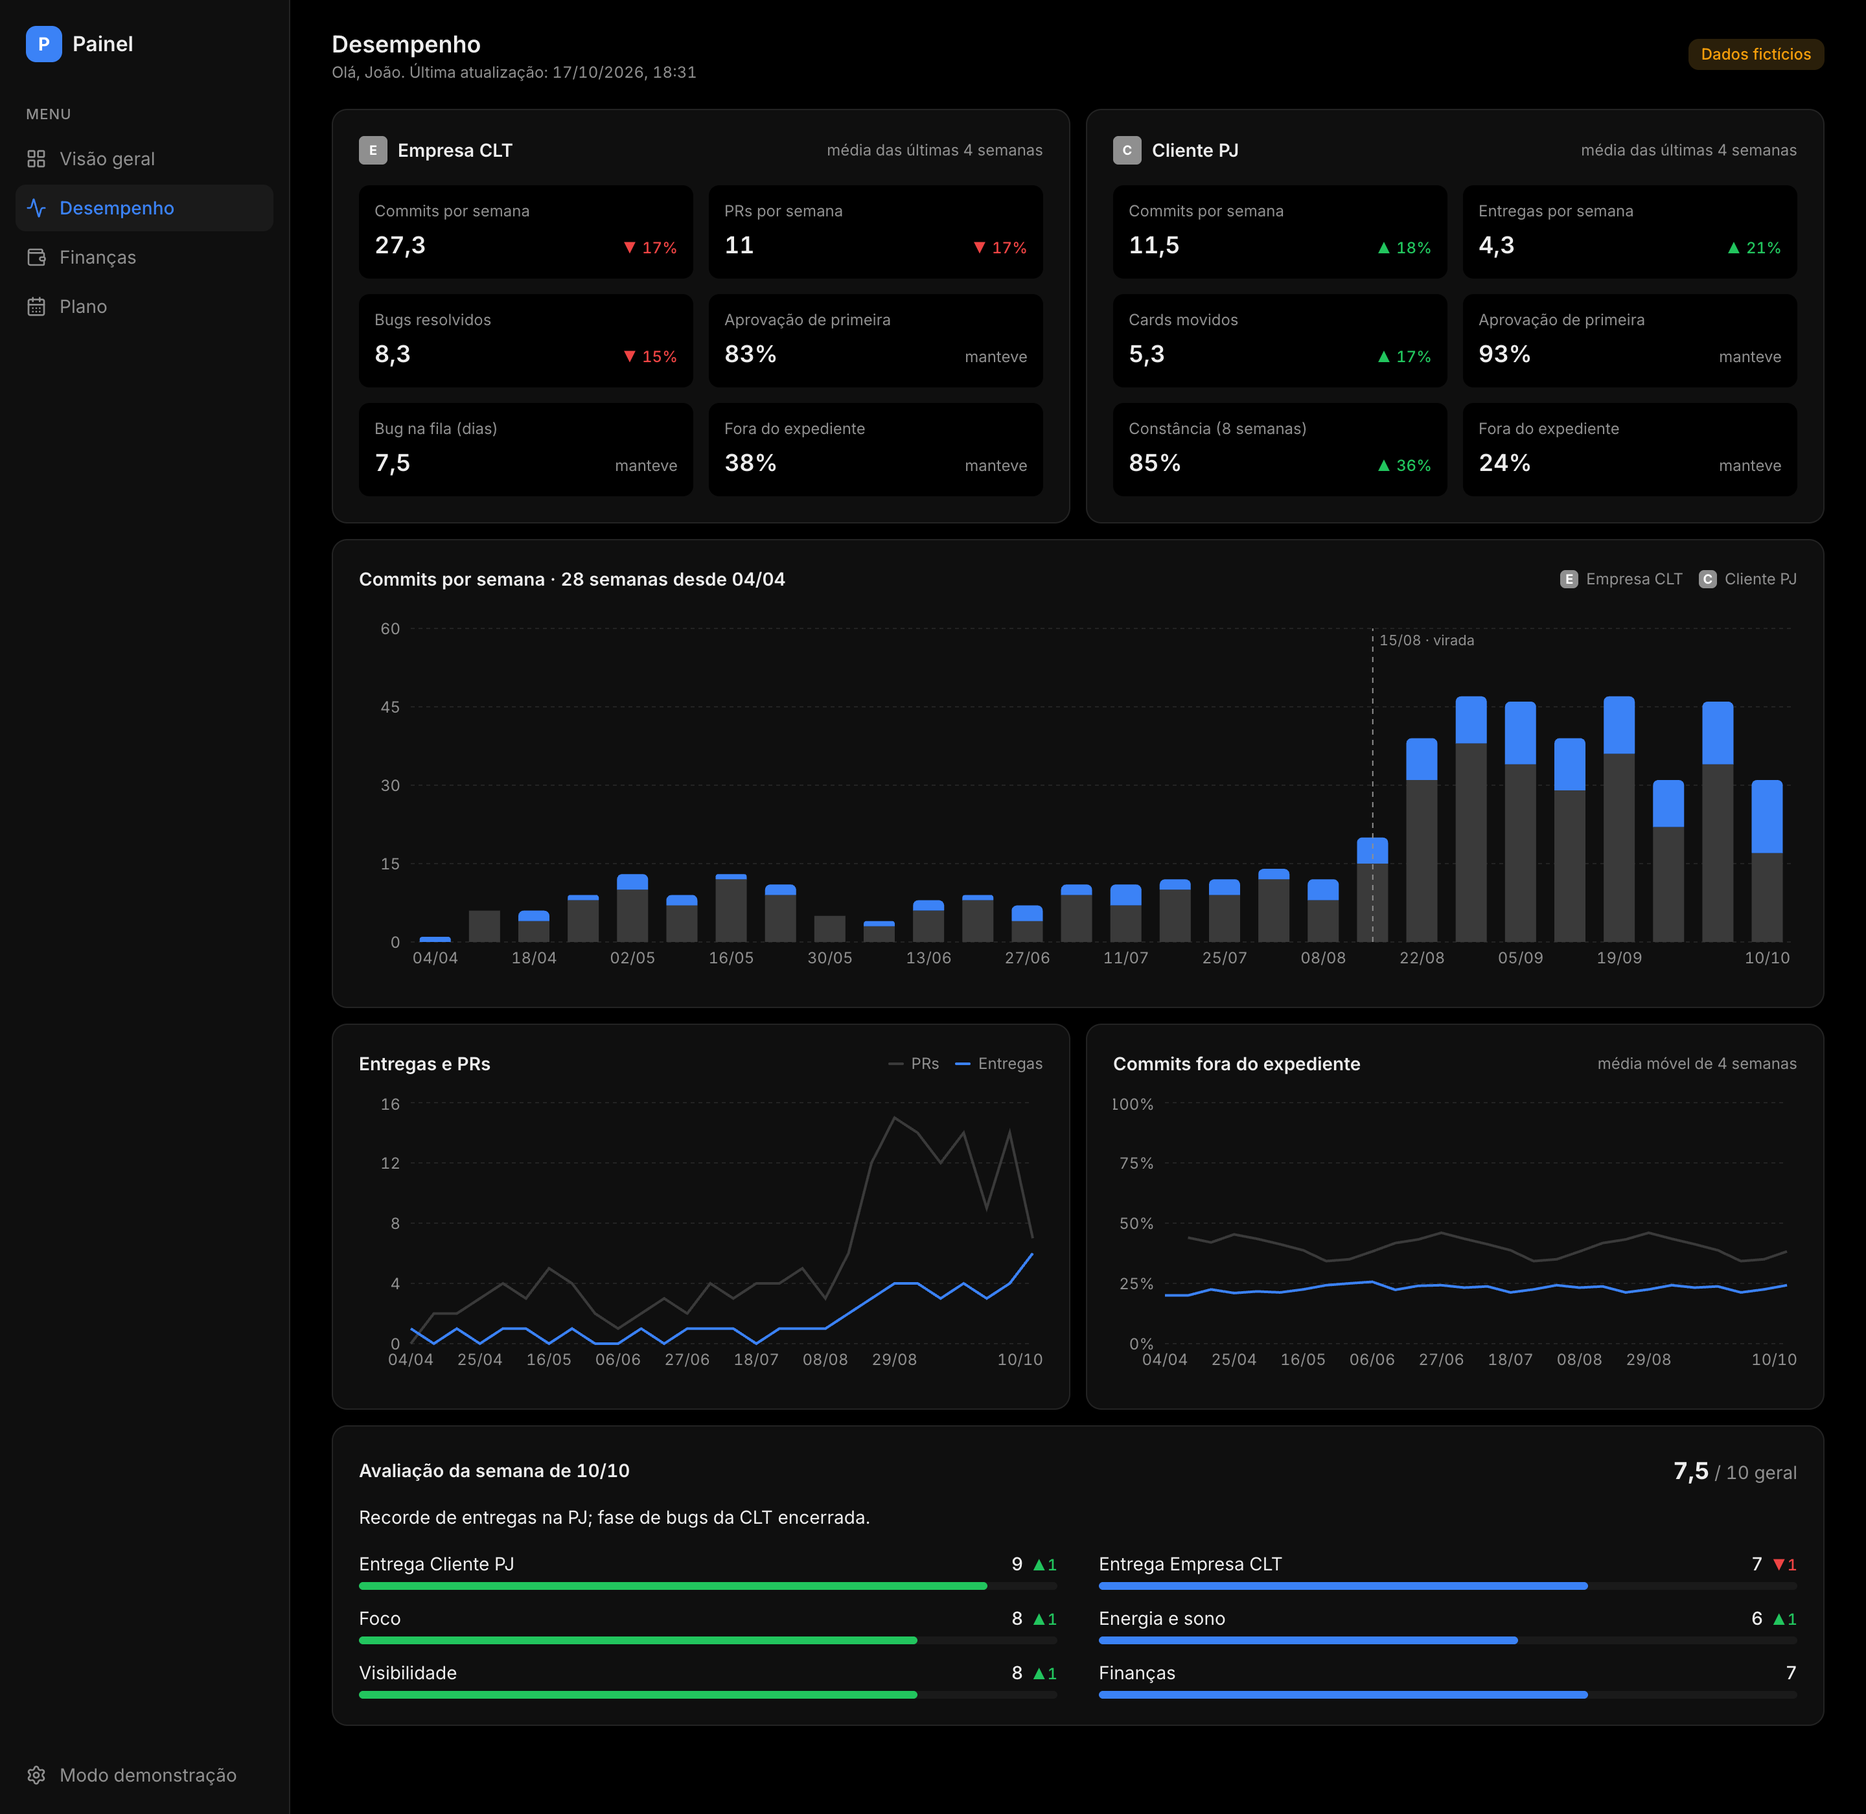
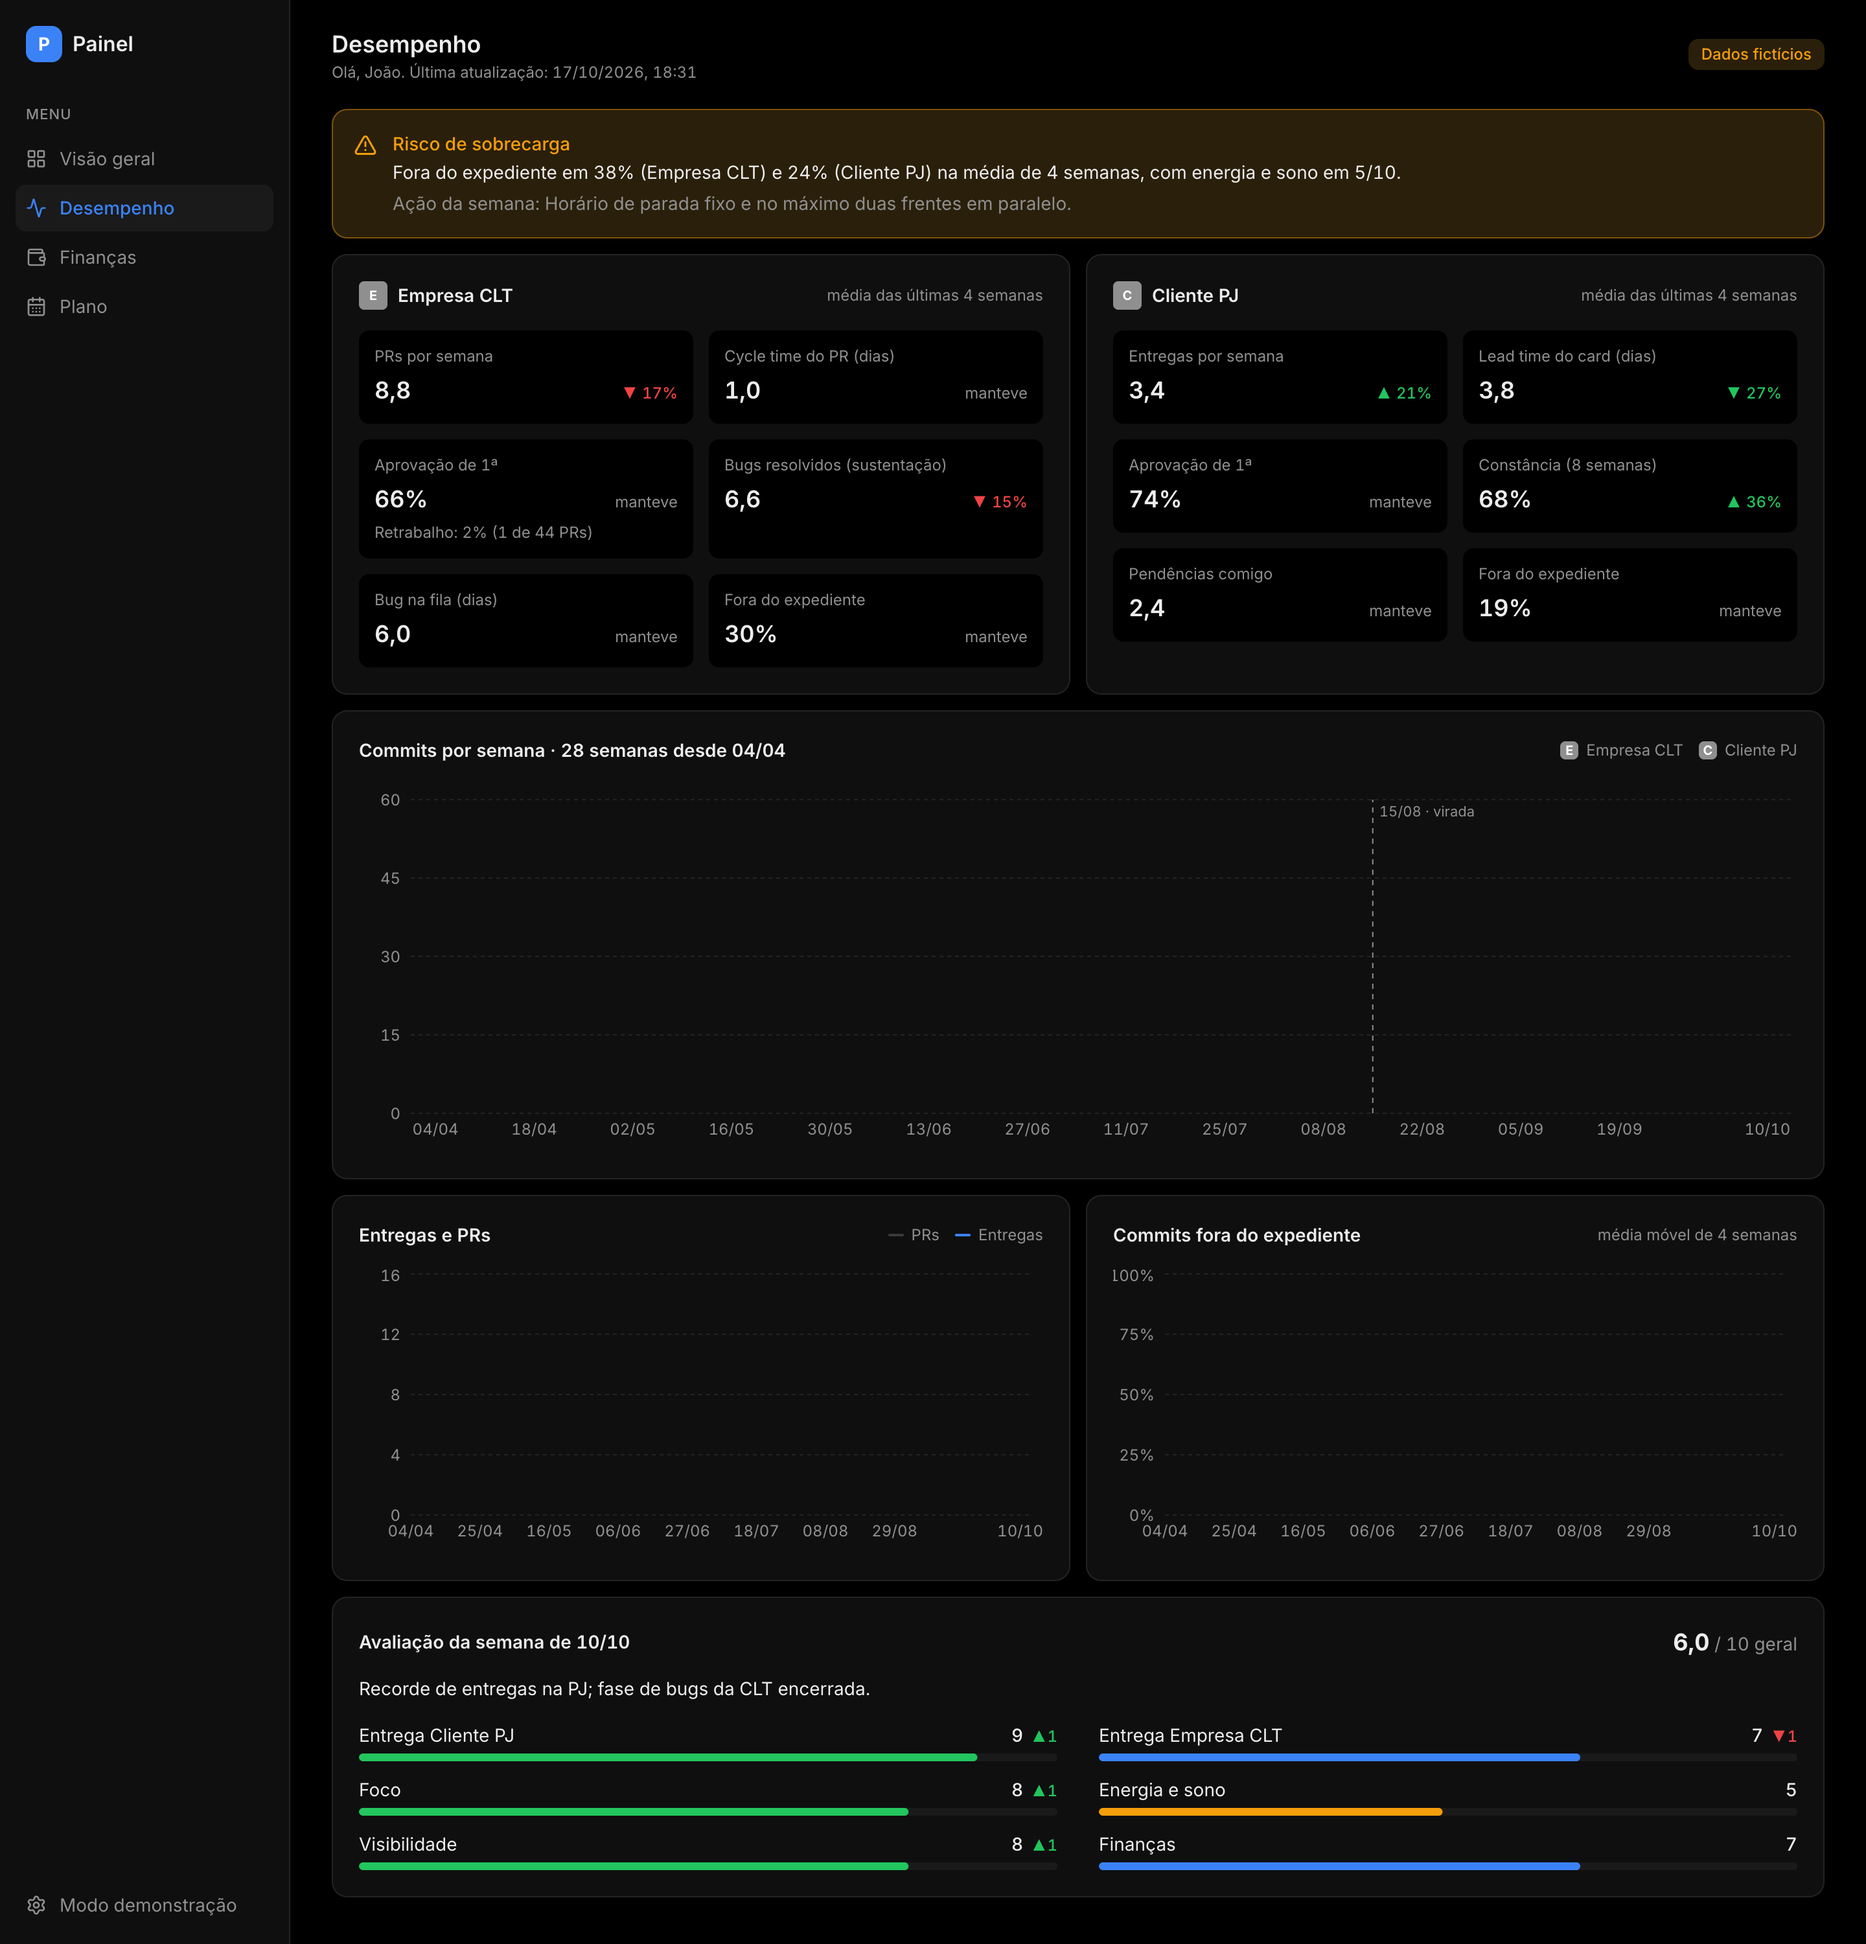
Desempenho: KPIs de fluxo e qualidade e alerta de sobrecarga
CLT: cycle time do PR no lugar de commits, retrabalho (regressões ÷ PRs) junto da aprovação
de 1ª, bugs como sustentação. PJ: lead time do card no lugar de cards movidos e pendências
comigo. Alerta quando o fora do expediente (média de 4 semanas) passa de 30% / 25% e
energia e sono está em 6 ou menos.

diff --git a/src/app/desempenho/page.tsx b/src/app/desempenho/page.tsx
@@ -6,12 +6,13 @@ import { Variacao } from "@/components/Variacao";
 import { carregarPainel, modo } from "@/lib/dados";
 import { corClt, corPj } from "@/lib/empresas";
 import { diaMes } from "@/lib/formato";
-import { comparar, mediaMovel, semanaDe } from "@/lib/metricas";
+import { comparar, mediaMovel, retrabalho, semanaDe, sobrecarga, type Chave } from "@/lib/metricas";
+import { TriangleAlert } from "lucide-react";
 import type { Empresa, Semana } from "@/lib/tipos";
 
 export const dynamic = "force-dynamic";
 
-type Metrica = { nome: string; chave: Parameters<typeof comparar>[1]; casas?: number; sufixo?: string; melhorSobe?: boolean };
+type Metrica = { nome: string; chave: Chave; casas?: number; sufixo?: string; melhorSobe?: boolean; sub?: React.ReactNode };
 
 function CartaoEmpresa({ empresa, hist, metricas }: { empresa: Empresa; hist: Semana[]; metricas: Metrica[] }) {
   return (
@@ -31,6 +32,7 @@ function CartaoEmpresa({ empresa, hist, metricas }: { empresa: Empresa; hist: Se
                 <span className="text-lg font-semibold">{atual == null ? "—" : <Contador valor={atual} casas={m.casas ?? 0} formato={m.sufixo === "%" ? "pct" : "num"} />}</span>
                 <Variacao atual={atual} antes={antes} melhorSobe={m.melhorSobe} />
               </dd>
+              {m.sub && <p className="mt-1 text-xs text-texto-2">{m.sub}</p>}
             </div>
           );
         })}
@@ -49,24 +51,41 @@ export default async function Desempenho() {
   const mmClt = mediaMovel(hist, "foraClt");
   const mmPj = mediaMovel(hist, "foraPj");
   const fora = hist.map((s, i) => ({ rotulo: s.rotulo, clt: mmClt[i], pj: mmPj[i] }));
+  const retr = retrabalho(hist);
+  const alerta = sobrecarga(hist, ultima?.areas["Energia e sono"]);
+  const pct = (v: number | null) => (v == null ? "—" : `${Math.round(v)}%`);
 
   return (
     <Moldura ativa="desempenho" titulo="Desempenho" modo={modo} dono={p.dono} atualizadoEm={p.atualizadoEm}>
+      {alerta && (
+        <div role="status" className="entrar mb-3 flex gap-3 rounded-xl border border-alerta/40 bg-alerta-suave p-4 text-sm">
+          <TriangleAlert size={18} className="mt-0.5 shrink-0 text-alerta" />
+          <div>
+            <p className="font-medium text-alerta">Risco de sobrecarga</p>
+            <p className="mt-0.5">
+              Fora do expediente em {pct(alerta.clt)} ({e.clt.nome}) e {pct(alerta.pj)} ({e.pj.nome}) na média de 4 semanas,
+              com energia e sono em {alerta.energia}/10.
+            </p>
+            <p className="mt-1 text-texto-2">Ação da semana: {ultima?.acao ?? "horário de parada fixo e menos frentes em paralelo."}</p>
+          </div>
+        </div>
+      )}
       <div className="grid grid-cols-1 gap-3 lg:grid-cols-2">
         <CartaoEmpresa empresa={e.clt} hist={hist} metricas={[
-          { nome: "Commits por semana", chave: "commitsClt", casas: 1 },
           { nome: "PRs por semana", chave: "prsClt", casas: 1 },
-          { nome: "Bugs resolvidos", chave: "bugsClt", casas: 1 },
-          { nome: "Aprovação de primeira", chave: "aprov1Clt", sufixo: "%" },
+          { nome: "Cycle time do PR (dias)", chave: "cyclePrClt", casas: 1, melhorSobe: false },
+          { nome: "Aprovação de 1ª", chave: "aprov1Clt", sufixo: "%",
+            sub: retr ? <>Retrabalho: {retr.pct.toLocaleString("pt-BR", { maximumFractionDigits: 0 })}% ({retr.regr} de {retr.prs} PRs)</> : "Retrabalho: sem registro" },
+          { nome: "Bugs resolvidos (sustentação)", chave: "bugsClt", casas: 1 },
           { nome: "Bug na fila (dias)", chave: "cicloClt", casas: 1, melhorSobe: false },
           { nome: "Fora do expediente", chave: "foraClt", sufixo: "%", melhorSobe: false },
         ]} />
         <CartaoEmpresa empresa={e.pj} hist={hist} metricas={[
-          { nome: "Commits por semana", chave: "commitsPj", casas: 1 },
           { nome: "Entregas por semana", chave: "entregasPj", casas: 1 },
-          { nome: "Cards movidos", chave: "cartoesPj", casas: 1 },
-          { nome: "Aprovação de primeira", chave: "aprov1Pj", sufixo: "%" },
+          { nome: "Lead time do card (dias)", chave: "leadPj", casas: 1, melhorSobe: false },
+          { nome: "Aprovação de 1ª", chave: "aprov1Pj", sufixo: "%" },
           { nome: "Constância (8 semanas)", chave: "constPj", sufixo: "%" },
+          { nome: "Pendências comigo", chave: "pendenciasPj", casas: 1, melhorSobe: false },
           { nome: "Fora do expediente", chave: "foraPj", sufixo: "%", melhorSobe: false },
         ]} />
       </div>

diff --git a/src/lib/metricas.ts b/src/lib/metricas.ts
@@ -1,6 +1,6 @@
 import type { Semana } from "./tipos";
 
-type Chave = { [K in keyof Semana]: Semana[K] extends number | null ? K : never }[keyof Semana];
+export type Chave = { [K in keyof Semana]-?: NonNullable<Semana[K]> extends number ? K : never }[keyof Semana];
 
 // Média ignorando semanas não medidas (null). Sem nenhum valor: null.
 export function media(semanas: Semana[], chave: Chave): number | null {
@@ -24,4 +24,20 @@ export function mediaMovel(hist: Semana[], chave: Chave, n = 4): (number | null)
 // Semana (rótulo) que contém a data do marco.
 export function semanaDe(hist: Semana[], data: string): string | undefined {
   return [...hist].reverse().find((s) => s.inicio <= data)?.rotulo;
+}
+
+// Retrabalho: regressões ÷ PRs nas últimas n semanas, só nas semanas em que as regressões foram registradas.
+export function retrabalho(hist: Semana[], n = 4) {
+  const sem = hist.slice(-n).filter((s) => s.regressoesClt != null);
+  const regr = sem.reduce((a, s) => a + (s.regressoesClt ?? 0), 0);
+  const prs = sem.reduce((a, s) => a + s.prsClt, 0);
+  return sem.length && prs ? { pct: (100 * regr) / prs, regr, prs } : null;
+}
+
+// Alerta de sobrecarga: fora do expediente alto (média de 4 semanas) e energia/sono baixos na última avaliação.
+export function sobrecarga(hist: Semana[], energia: number | undefined) {
+  const clt = media(hist.slice(-4), "foraClt");
+  const pj = media(hist.slice(-4), "foraPj");
+  const alto = (clt ?? 0) > 30 || (pj ?? 0) > 25;
+  return alto && energia != null && energia <= 6 ? { clt, pj, energia } : null;
 }

diff --git a/src/lib/tipos.ts b/src/lib/tipos.ts
@@ -33,7 +33,7 @@ export type Painel = {
     semanas: { rotulo: string; commitsClt: number; commitsPj: number; entregasPj: number; prsClt: number }[];
     historico: Semana[];
     marcos: { data: string; rotulo: string }[];
-    notas: { inicio: string; geral: number; areas: Record<string, number>; destaque: string }[];
+    notas: { inicio: string; geral: number; areas: Record<string, number>; destaque: string; acao?: string }[];
     atual: { nota: number | null; foraDoExpedientePct: number; destaque: string };
   };
 };
@@ -48,6 +48,10 @@ export type Semana = {
   aprov1Clt: number | null; aprov1Pj: number | null;
   constClt: number | null; constPj: number | null;
   cicloClt: number | null; cicloPj: number | null;
+  cyclePrClt?: number | null; // dias do 1º commit ao merge (mediana da semana)
+  leadPj?: number | null; // dias da criação do card à entrega (mediana)
+  regressoesClt?: number | null; // bugs causados por entregas minhas
+  pendenciasPj?: number | null; // itens comigo em andamento
 };
 
 // Detalhe da tela Finanças: o mês até hoje contra os mesmos dias do mês anterior.

diff --git a/README.md b/README.md
@@ -10,7 +10,7 @@ Next.js 15 (App Router), Tailwind 4 e Recharts. Tema claro e escuro, layout de c
 | Visão geral | saldo, próximo marco do plano, meta, dia a dia do mês, semana atual e plano do mês |
 | Finanças | gasto do mês contra os mesmos dias do mês anterior, por categoria; contas fixas pagas e pendentes; parcelas dos próximos 12 meses; faturamento e custos da PJ |
 | Plano | linha do tempo com saldo previsto item a item (já descontado o dia a dia livre), depósitos da meta e compromissos com data para acabar |
-| Desempenho | média de 4 semanas por empresa (com variação), histórico de commits com marcos, entregas e PRs, % fora do expediente (média móvel) e a avaliação da semana por área |
+| Desempenho | por empresa, média de 4 semanas com variação: vazão (PRs/entregas), fluxo (cycle time do PR, lead time do card), qualidade (aprovação de 1ª, retrabalho), fila (bug na fila, pendências) e % fora do expediente; alerta de sobrecarga quando o fora do expediente está alto e energia/sono ≤ 6; histórico com marcos e a avaliação da semana por área |
 
 ![Finanças](docs/financas.png)
 
